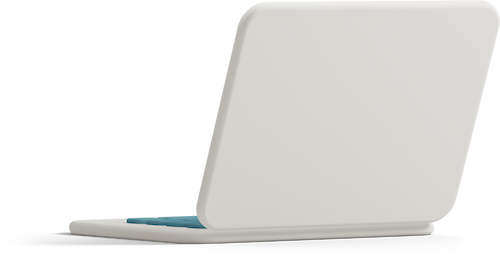
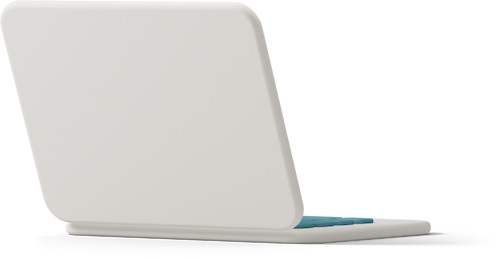
Modifying illustrations.

diff --git a/src/app/components/HeroImage.tsx b/src/app/components/HeroImage.tsx
@@ -5,7 +5,7 @@ import usePrefersReducedMotion from '@/utils/usePrefersReducedMotion';
 import { animate } from 'motion';
 import Image from 'next/image';
 import Laptop from 'public/illustrations/optimized/laptop.png';
-import Illustration from 'public/illustrations/optimized/man-guitar.png';
+import Illustration from 'public/illustrations/optimized/man-with-guitar.png';
 import { useEffect, useRef } from 'react';
 
 export default function ColinImage() {
@@ -44,7 +44,7 @@ export default function ColinImage() {
           y: [0.0, 4.0, 0.0, -4.0, 0.0],
         },
         {
-          delay: delay + 1,
+          delay: delay + 1.5,
           duration: 6.0,
           repeat: Infinity,
         },
@@ -59,14 +59,14 @@ export default function ColinImage() {
     >
       <Image
         alt="A 3D illustration of a young man playing an acoustic guitar"
-        className="h-auto w-full pr-[10%]"
+        className="-scale-x-1 h-auto w-full pl-[10%]"
         priority
         ref={illustrationRef}
         src={Illustration}
       />
       <Image
         alt="A 3D illustration of a laptop"
-        className="absolute bottom-0 right-0 w-[45%] md:max-w-full"
+        className="absolute bottom-0 left-0 w-[45%] md:max-w-full"
         priority
         ref={laptopRef}
         src={Laptop}

diff --git a/src/app/components/MeetColin.tsx b/src/app/components/MeetColin.tsx
@@ -7,9 +7,9 @@ import { animate, inView, stagger } from 'motion';
 import Image from 'next/image';
 import { useEffect, useRef } from 'react';
 import { twMerge } from 'tailwind-merge';
-import Illustration from '../../../public/illustrations/casual-life-3d-young-man-standing-with-bicycle-behind-his-back.png';
+import Illustration from '../../../public/illustrations/optimized/man-with-bicycle.png';
 
-const staggerItem = 'stagger-item';
+const staggerItem = 'meet-colin-stagger-item';
 
 export default function MeetColin() {
   const viewRef = useRef<HTMLDivElement>(null);
@@ -46,7 +46,7 @@ export default function MeetColin() {
               everyone.
             </p>
 
-            <ul className="mt-4 list-disc pl-4 font-light text-neutral-6">
+            <ul className="mt-4 list-disc pl-6 font-light text-neutral-6">
               <li className="my-1 pl-2">Software engineering</li>
               <li className="my-1 pl-2">Music & audio</li>
               <li className="my-1 pl-2">Podcasting</li>

diff --git a/src/app/components/CreateSoftware.tsx b/src/app/components/CreateSoftware.tsx
@@ -7,9 +7,9 @@ import { animate, inView, stagger } from 'motion';
 import Image from 'next/image';
 import { useEffect, useRef } from 'react';
 import { twMerge } from 'tailwind-merge';
-import Illustration from '../../../public/illustrations/desk-chair-coffee.png';
+import Illustration from '../../../public/illustrations/optimized/man-chair-coffee.png';
 
-const staggerItem = 'stagger-item';
+const staggerItem = 'create-software-stagger-item';
 
 export default function CreateSoftware() {
   const viewRef = useRef<HTMLDivElement>(null);
@@ -39,7 +39,7 @@ export default function CreateSoftware() {
               My goal is to make the web a friendly and enjoyable place for
               everyone.
             </p>
-            <ul className="mt-4 list-disc pl-4 font-light text-neutral-6">
+            <ul className="mt-4 list-disc pl-6 font-light text-neutral-6">
               <li className="my-1 pl-2">
                 Design and build amazing front-end experiences.
               </li>

diff --git a/src/app/globals.css b/src/app/globals.css
@@ -14,7 +14,7 @@
     @apply h-full overflow-hidden;
   }
   .blog-post ul {
-    @apply mt-4 list-disc pl-4 marker:text-primary-7;
+    @apply mt-4 list-disc pl-6 marker:text-primary-7;
   }
   .blog-post li {
     @apply my-1 pl-2;
